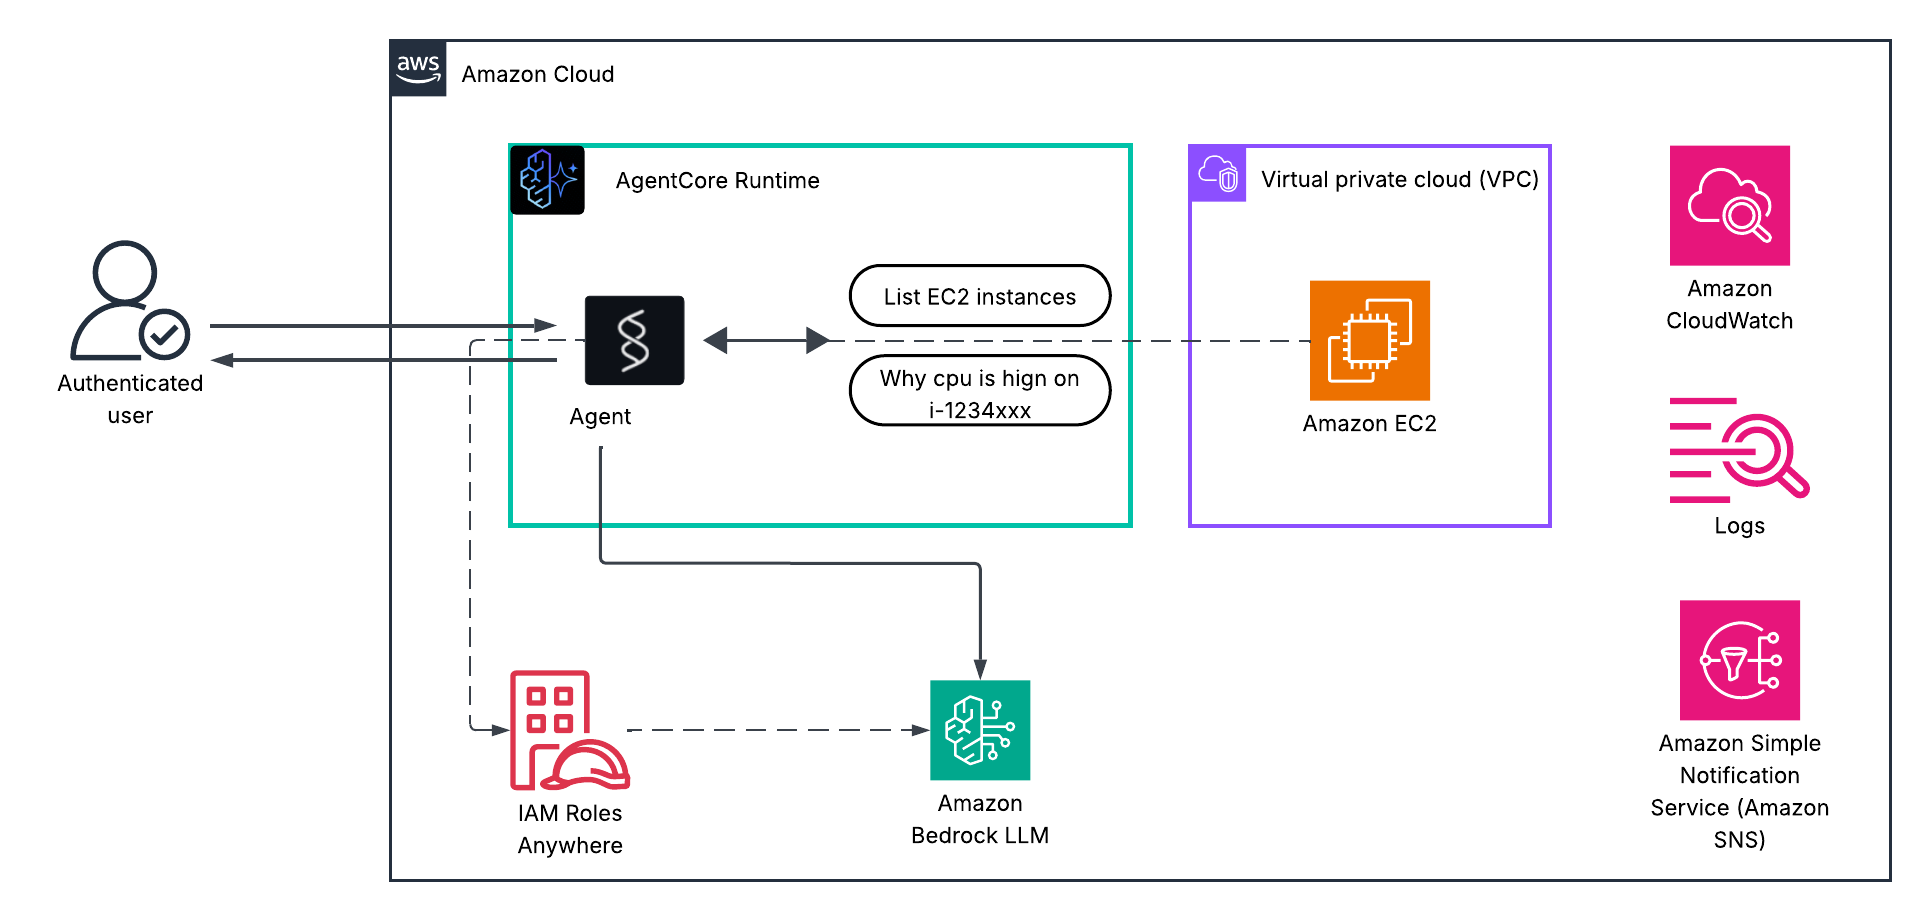
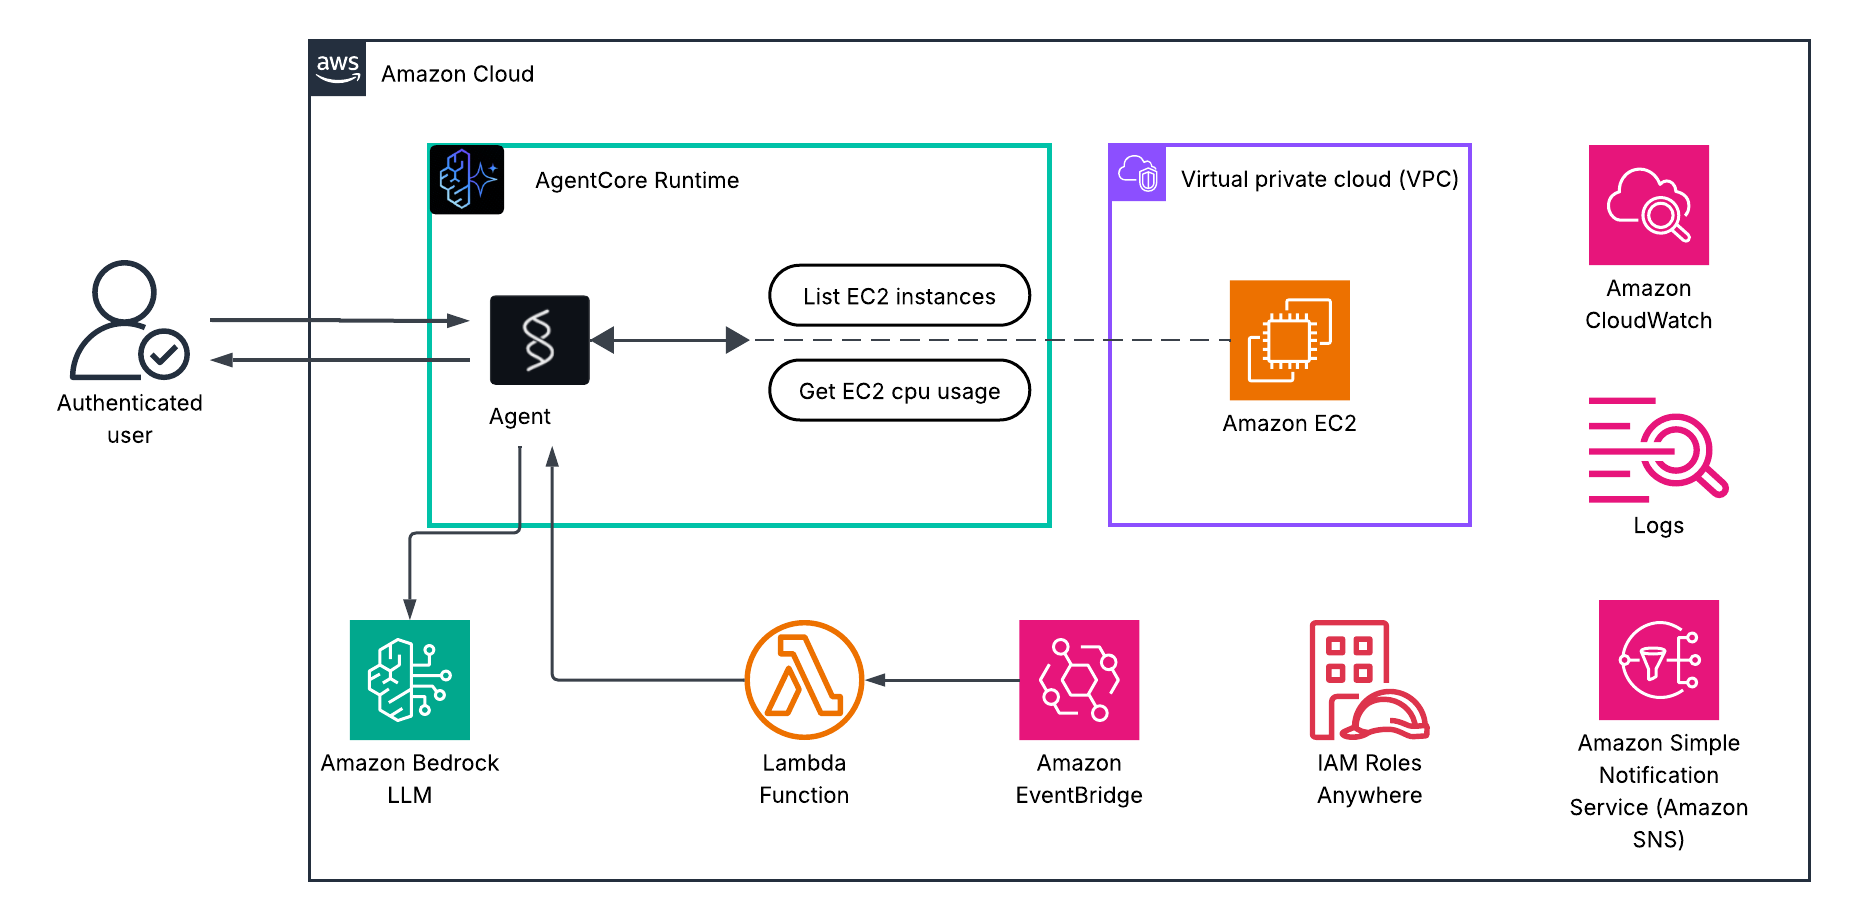
added lambda and eventbridge. - lambda will invoke the agent with prompt - eventbridge will trigger target, lambda every 5 minutes.

diff --git a/README.md b/README.md
@@ -1,6 +1,6 @@
 # Intelligent EC2 CPU Monitoring Agent
 
-> AI-powered monitoring solution that provides intelligent, context-aware alerts for EC2 CPU usage using Claude LLM.
+> AI-powered monitoring solution that provides intelligent, context-aware alerts for EC2 CPU usage using Claude LLM. Scale it based on your needs.
 
 ![alt text](pics/intelligent.png)
 
@@ -64,8 +64,17 @@ ALERT_COOLDOWN_MINUTES = 15
 ### Deployment
 
 ```bash
-# configure and Deploy with AgentCore
-agentcore configure -e agent.py
+# Deploy the infra and agent
+sh deploy.sh
+
+# clean
+sh clean.sh
+
+# update the agent or infra
+sh deploy.sh true
+
+# you can deploy updates using 
+cdk deploy
 agentcore launch
 
 ```
@@ -105,13 +114,13 @@ The agent will automatically:
 ## Architecture
 
 ```
-EventBridge (5 min) → AgentCore Runtime → Claude LLM Agent
-                                            ↓
-                                    CloudWatch Metrics
-                                            ↓
-                                    Analysis & Context
-                                            ↓
-                                    SNS Alerts → Email/SMS
+EventBridge (5 min) → lambda → AgentCore Runtime → Claude LLM Agent
+                                              ↓
+                                      CloudWatch Metrics
+                                              ↓
+                                      Analysis & Context
+                                              ↓
+                                      SNS Alerts → Email/SMS
 ```
 
 ### Components
@@ -124,21 +133,27 @@ EventBridge (5 min) → AgentCore Runtime → Claude LLM Agent
 ## 📁 Project Structure
 
 ```
-ec2-cpu-monitoring-agent/
-├── agent.py                     # Main agent code
-├── config.py                    # Configuration
-├── requirements.txt             # Dependencies
-│
-├── tools/                       # Agent tools
-│   ├── cloudwatch_tool.py      # Get CPU metrics
-│   ├── sns_tool.py             # Send alerts
-│   ├── monitoring_tool.py      # Check all instances
-│   └── list_instances_tool.py  # List with CPU
-│
-├── ask.py                       # Interactive CLI    
-└── README.md                    # This file
+intelligent-ec2-monitoring-agent/
+├── README.md
+├── agent.py
+├── app.py
+├── ask.py
+├── clean.sh
+├── config.py
+├── deploy.sh
+├── infrastructure
+│   ├── cdk.out
+│   └── infra_stack.py
+├── lambda
+│   └── agent_trigger.py
+├── requirements.txt
+├── response.json
+└── tools
+    ├── cloudwatch_tool.py
+    ├── list_instances_tool.py
+    ├── monitoring_tool.py
+    └── sns_tool.py
 ```
-
 
 
 ### Example 2: Investigate High CPU
@@ -183,26 +198,6 @@ Estimated cost impact of scaling:
 - Current: t3.small = $15/month
 - Scaled: t3.large = $60/month
 - Recommendation: Wait and monitor first
-```
-
-
-## 🔐 IAM Permissions Required for agent
-
-```json
-{
-  "Version": "2012-10-17",
-  "Statement": [
-    {
-      "Effect": "Allow",
-      "Action": [
-        "ec2:DescribeInstances",
-        "cloudwatch:GetMetricStatistics",
-        "sns:Publish"
-      ],
-      "Resource": "*"
-    }
-  ]
-}
 ```
 
 ## 🛣 Roadmap
